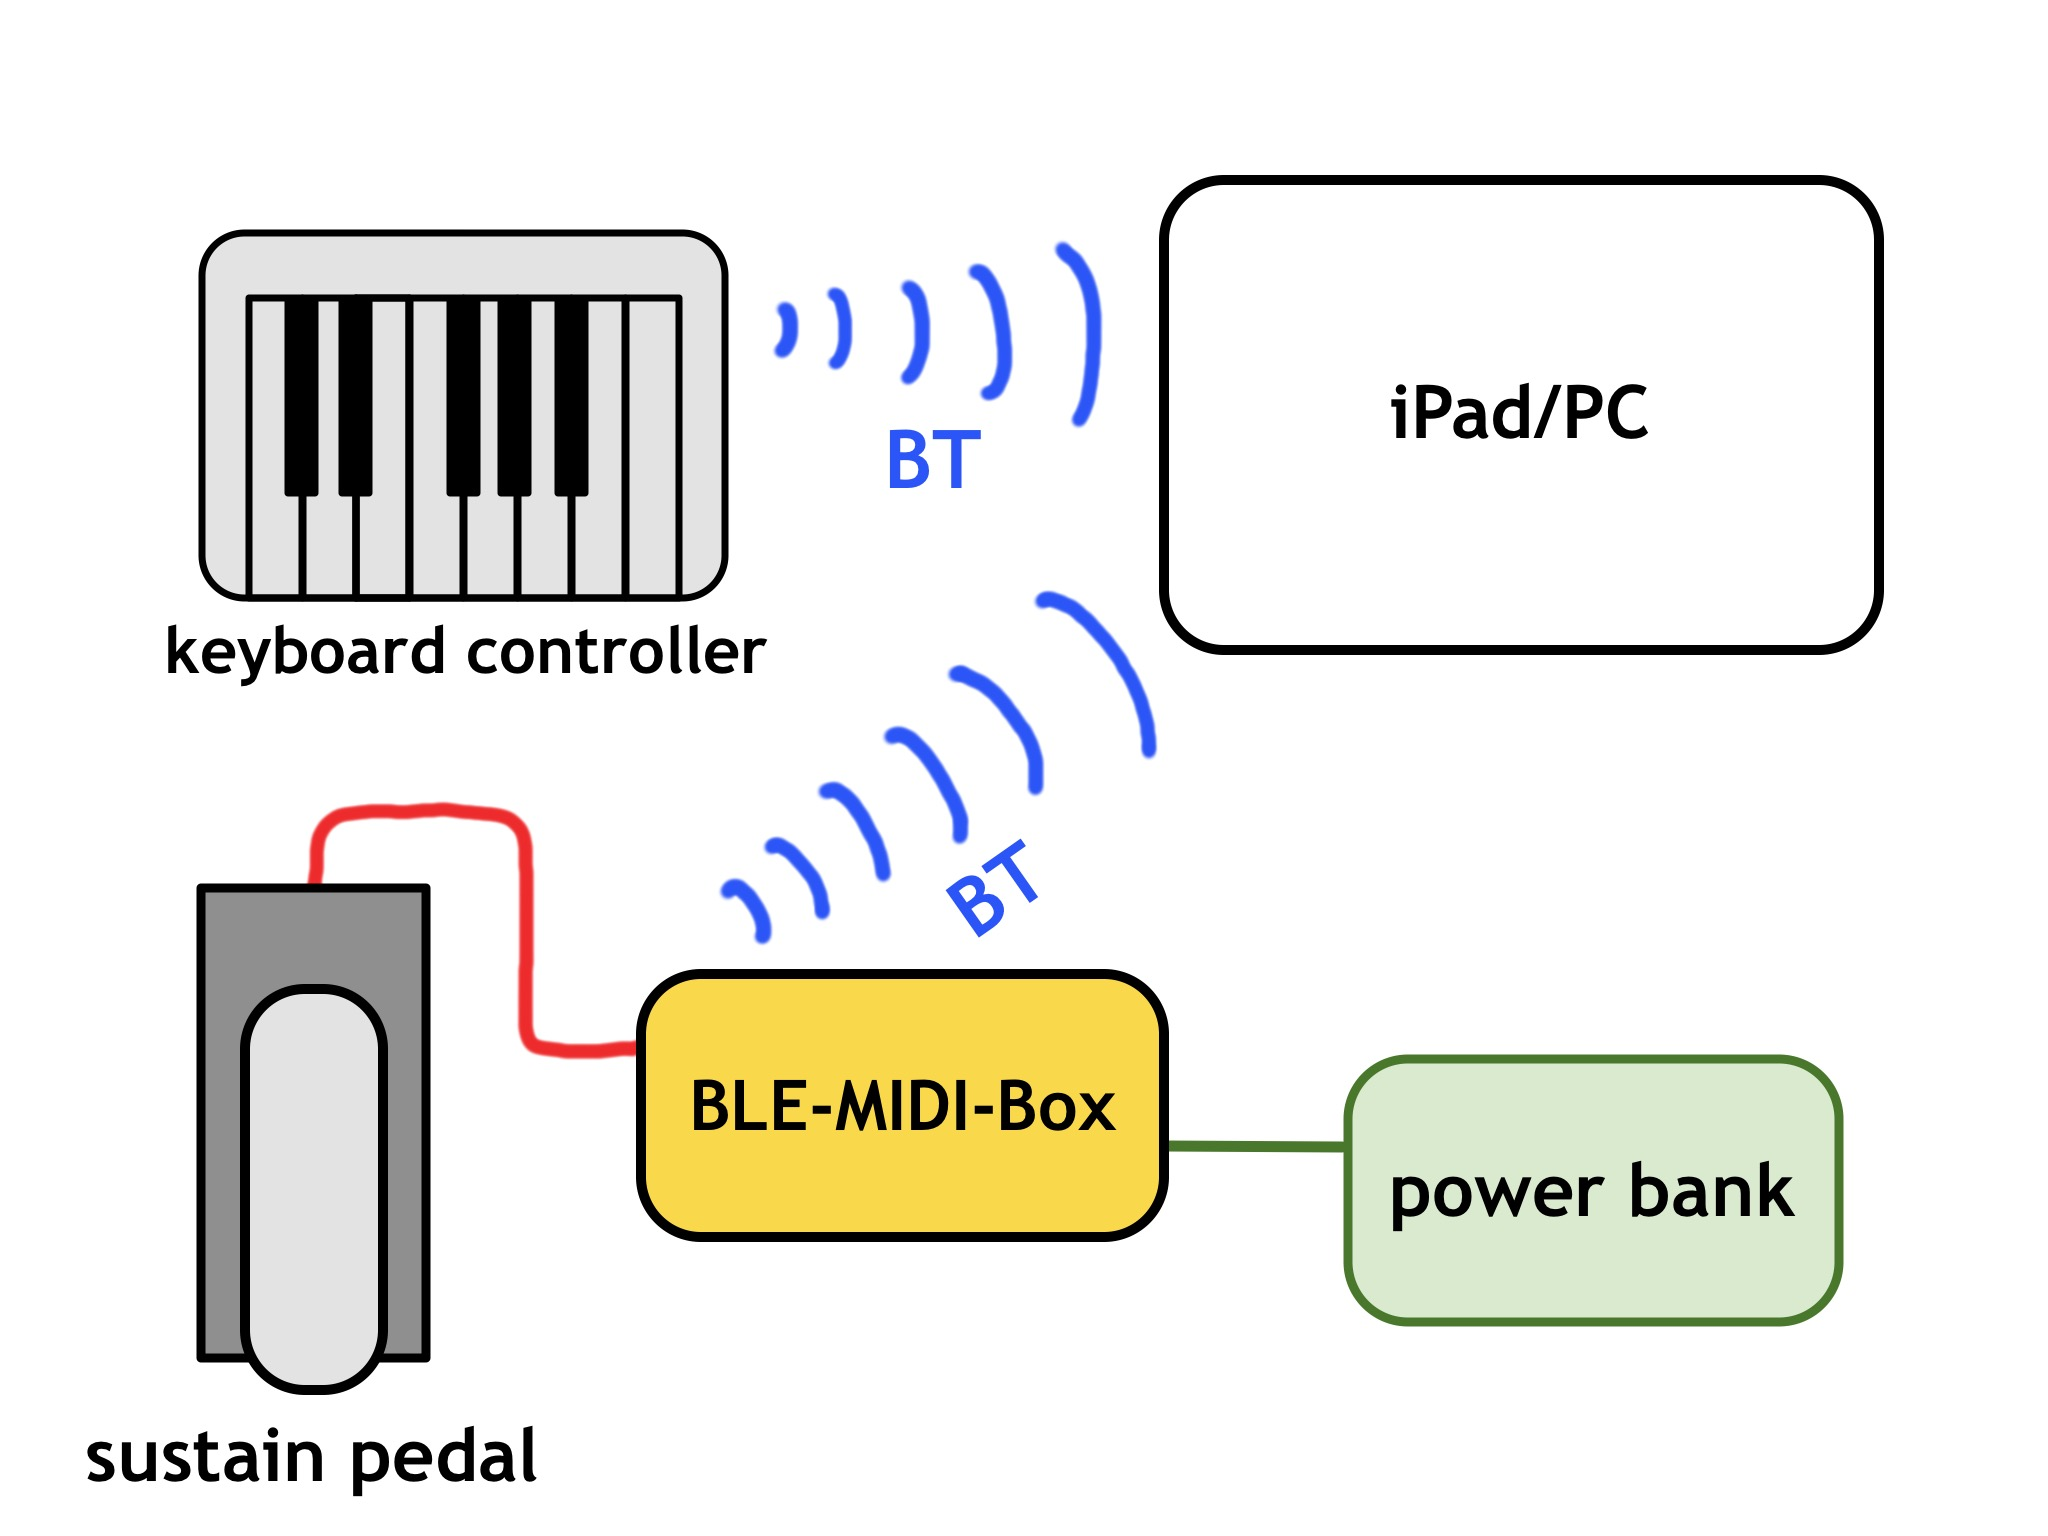
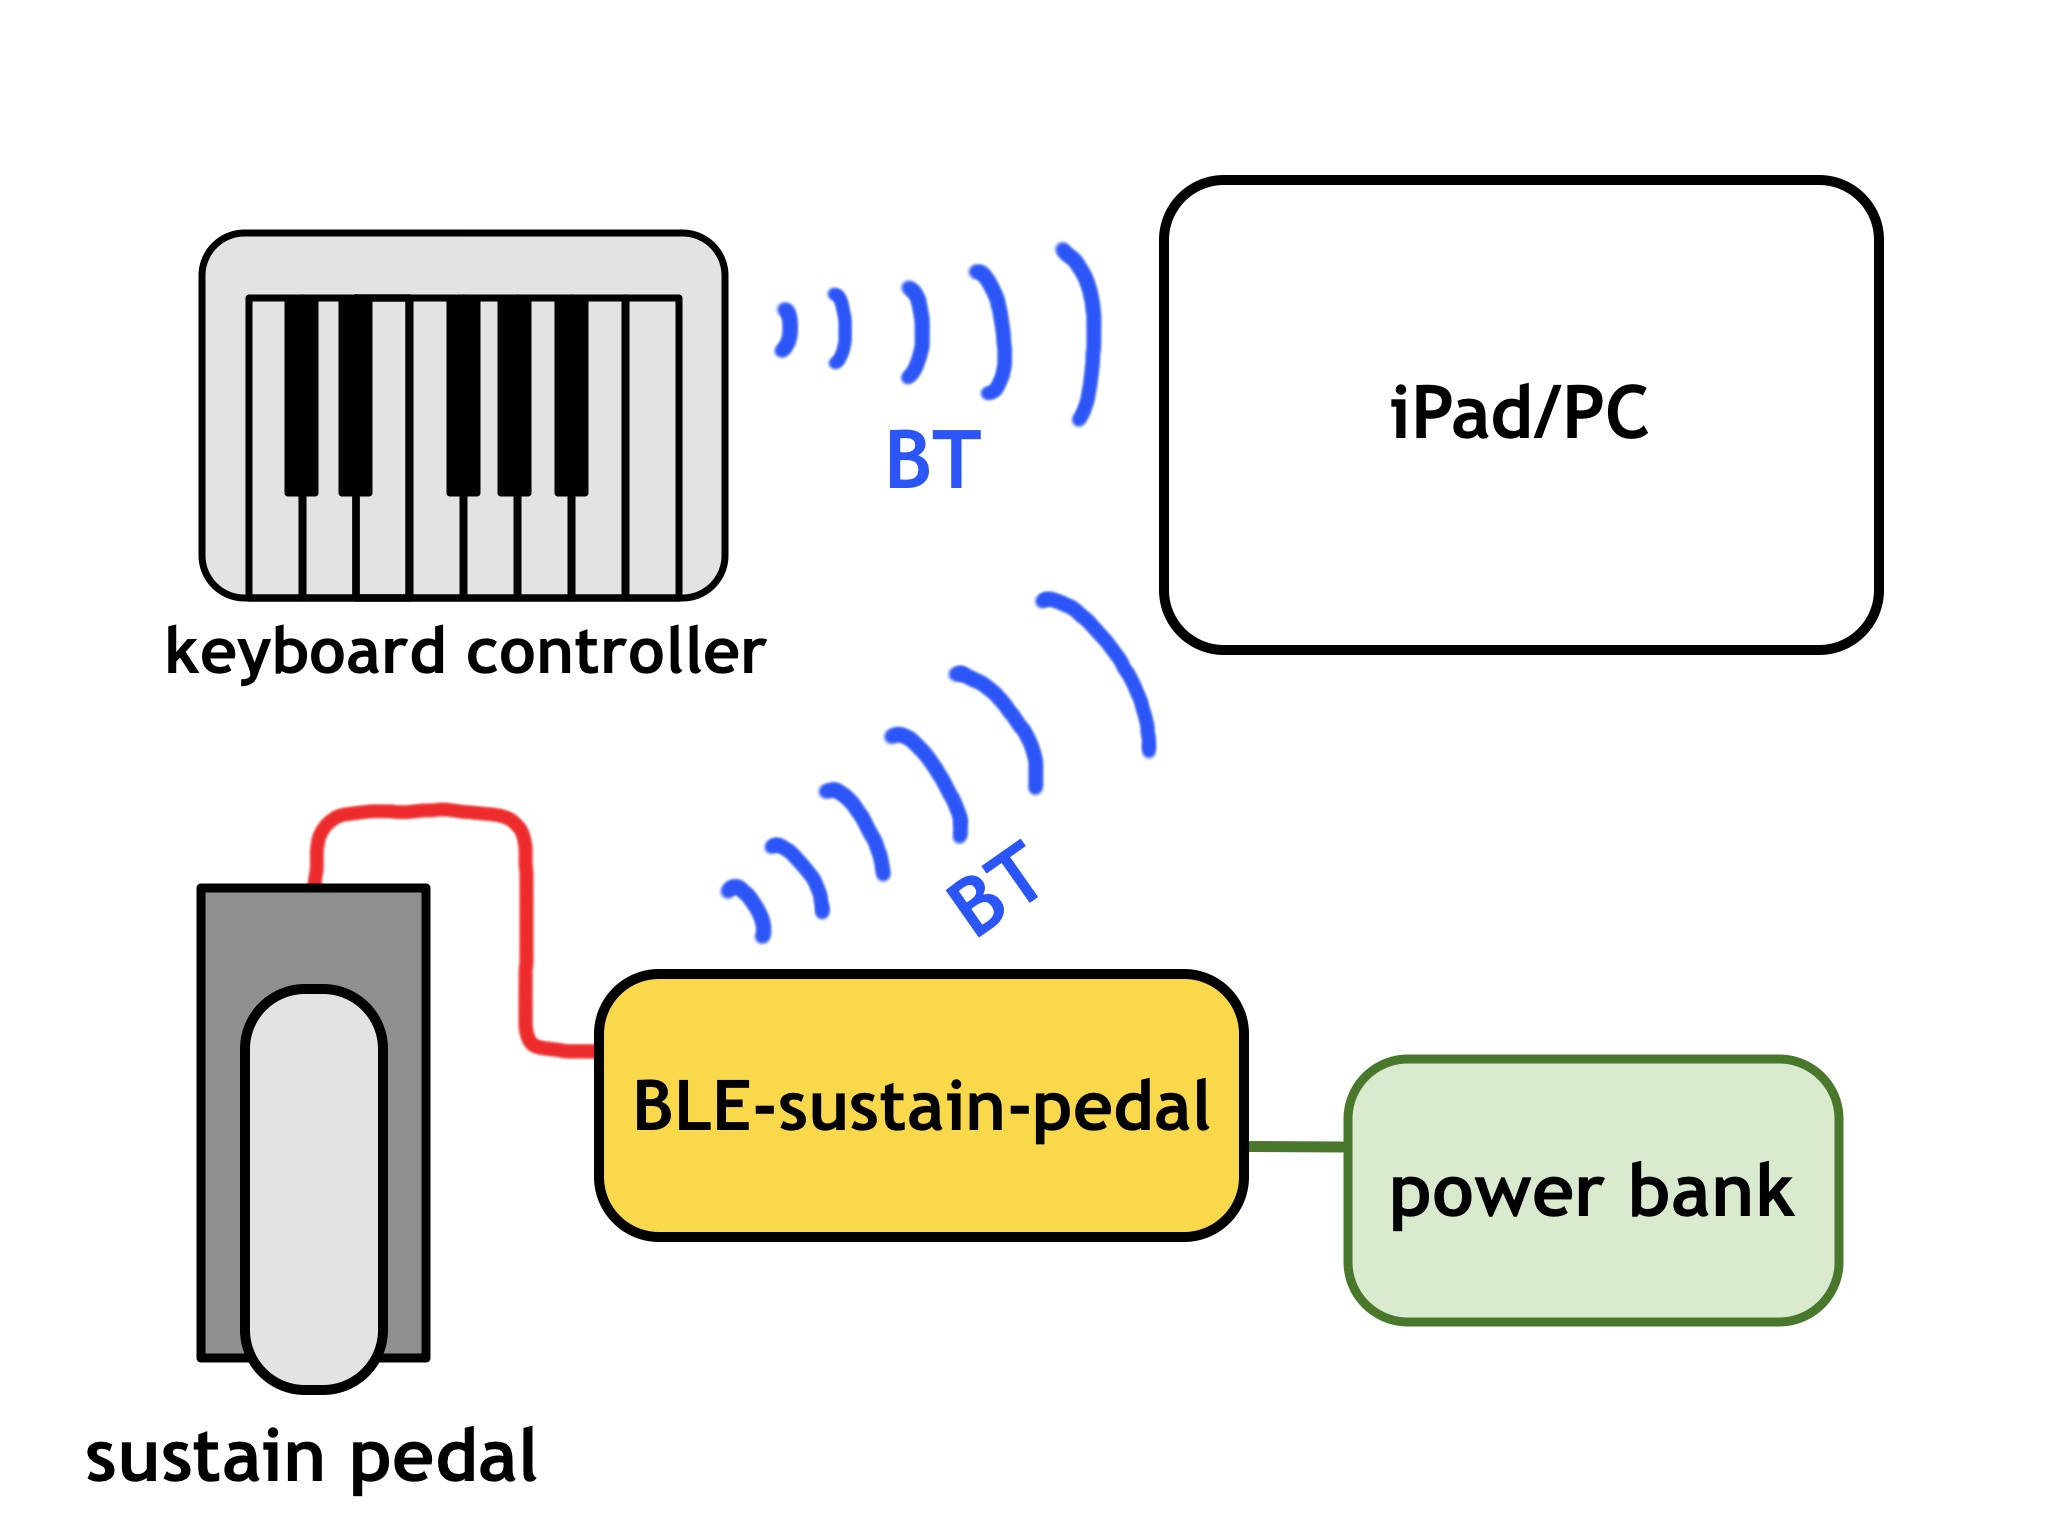
rename project, add real device picture

Changed region(s): [[0.2812, 0.625, 0.625, 0.8125]]

diff --git a/README.md b/README.md
@@ -1,6 +1,6 @@
-# BLE-MIDI-Box
+# BLE-sustain-pedal
 
-Bluetooth MIDI controller sw and hw, for adding standard features missing on some bluetooth keyboard controllers.
+Bluetooth MIDI sustain pedal device, any sustain pedal with 6.5mm jack can plug into.
 
 ## Why to use
 
@@ -11,9 +11,9 @@ Some exceptional bluetooth MIDI keyboard controllers, such as:
 
 lack dedicated sustain pedal port.
 
-BLE-MIDI-Box solves this issue by sending its own sustain pedal MIDI message via separate bluetooth connection. 
+BLE-sustain-pedal solves this issue by sending its own sustain pedal MIDI message via separate bluetooth connection. 
 
-BLE-MIDI-Box works with most sustain pedals with 6.5mm jack connector.
+BLE-sustain-pedal works with most sustain pedals with 6.5mm jack connector.
 
 ## How it works
 
@@ -23,13 +23,14 @@ BLE-MIDI-Box works with most sustain pedals with 6.5mm jack connector.
 
 ### Sustain pedal
 
+- pedal polarity auto detection
 - only switch mode support
-- polarity auto detection
 
 __Note__: While BT pairing is in progress, be sure the sustain pedal is both attached and not pressed, so the pedal polarity is recognized properly.
 
 ## Real device picture
-
+![device picture](./docs/pics/real-image.jpg)
+## Inside the box
 ![device picture](./docs/pics/real-scheme.jpg)
 ## Hardware list
 
